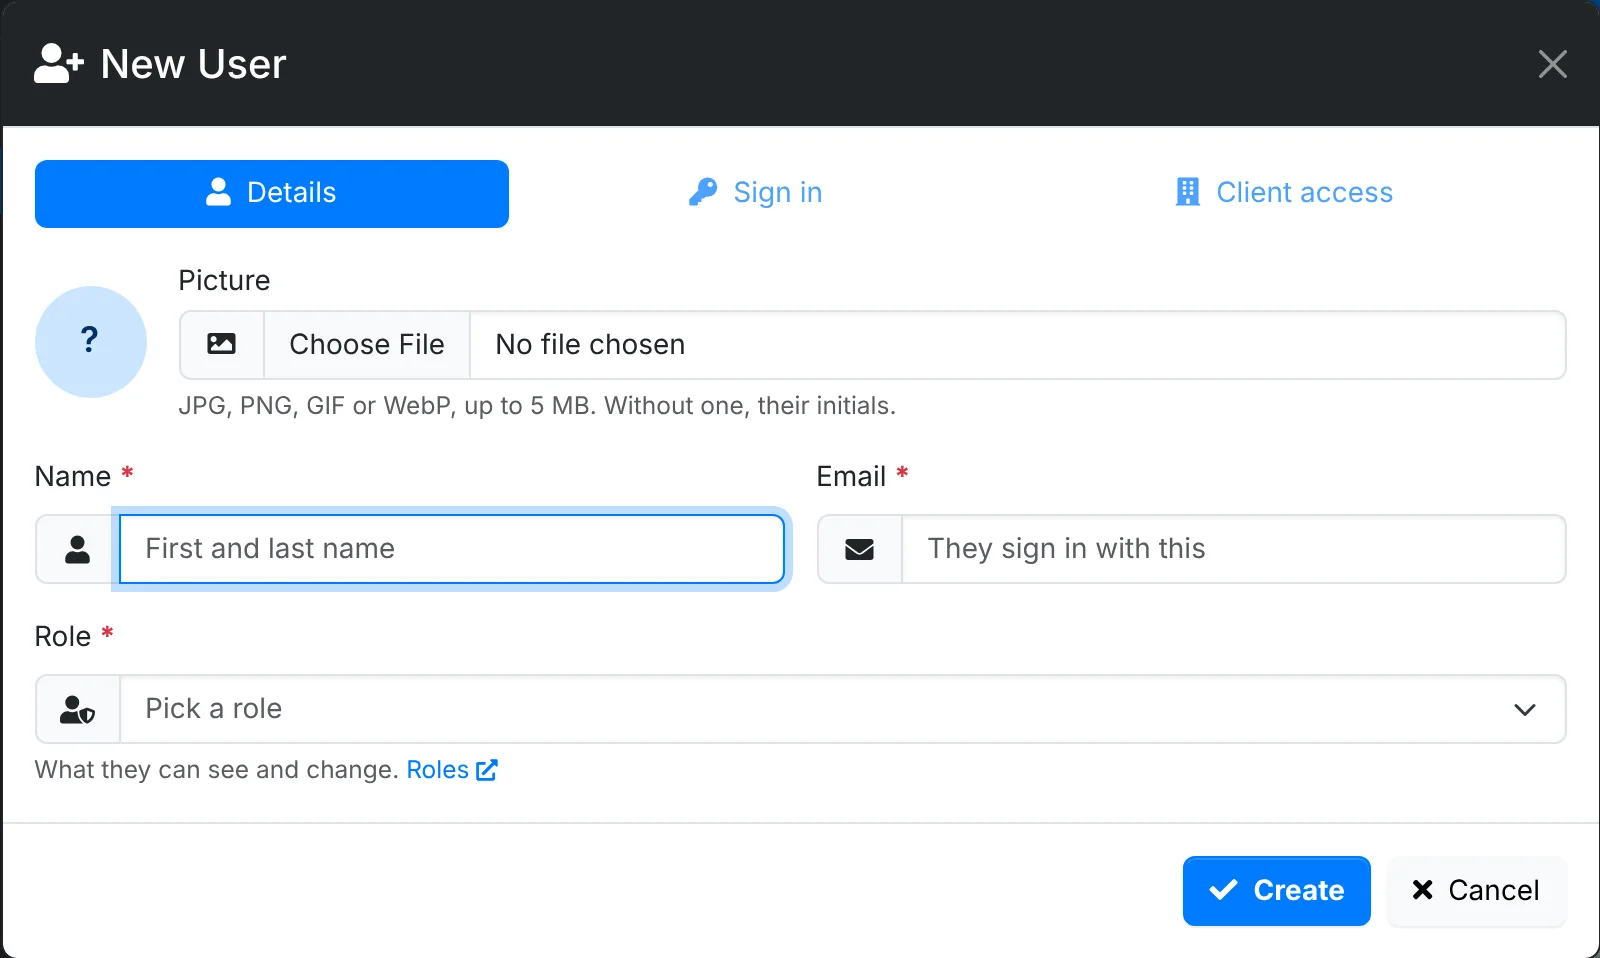
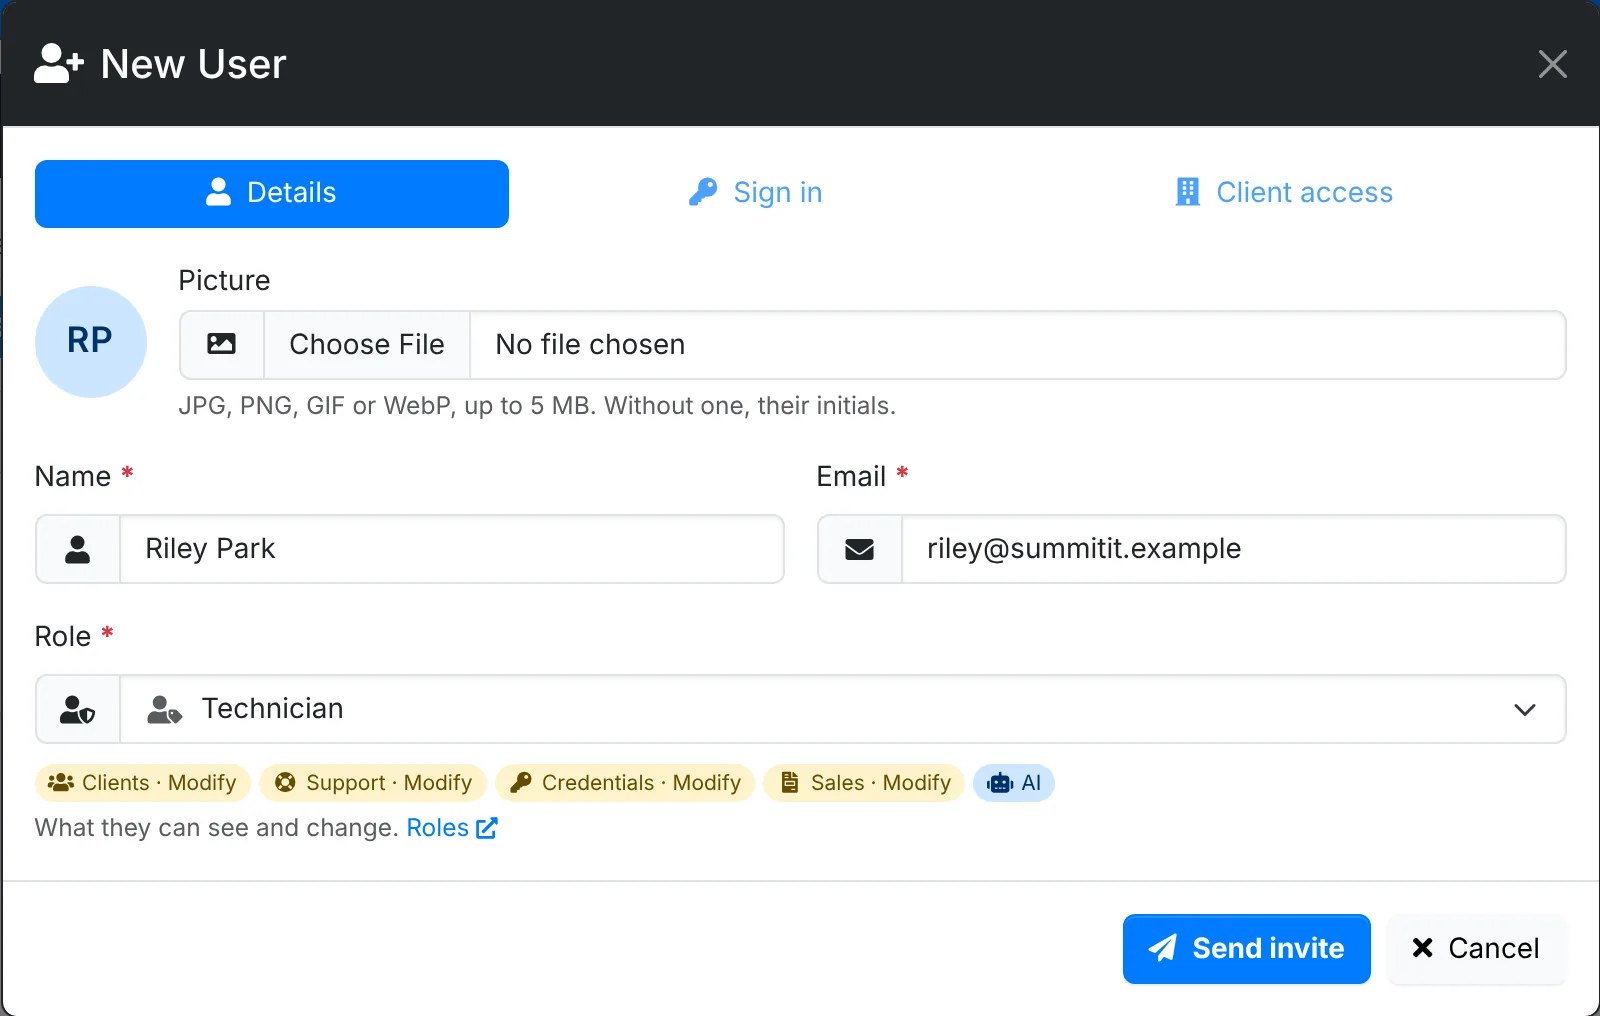
Document agent invites: Users covers inviting someone, joining from the link, the Invited tab with Send again, Get the link and Cancel invite, and seats held by waiting invites; the after-install Your team step now invites when email is set up; new and updated screenshots for the users list, New Use

diff --git a/content/admin/users.md b/content/admin/users.md
@@ -1,6 +1,6 @@
 ---
 title: Users
-description: The agents who sign in to ITFlow - adding them, their role and the clients they see, two-step sign-in, and what to do when someone leaves.
+description: The agents who sign in to ITFlow - inviting them, their role and the clients they see, two-step sign-in, and what to do when someone leaves.
 where: Admin > Users
 access: Admins
 ---
@@ -9,19 +9,56 @@ Users are your team: everyone who signs in to ITFlow to work. (Your clients' con
 
 ![The users list](adm-users.webp "Users: each agent's role, how they sign in, the clients they see and when they last signed in")
 
-Each row shows the agent, their **Role**, whether they can sign in and how (with or without two-step sign-in), the **Clients** they can see, and when they **Last signed in** and from where. The tabs show **Users**, **Admins**, **No MFA** (not using two-step sign-in), **Disabled** and **Archived**.
+Each row shows the agent, their **Role**, whether they can sign in and how (with or without two-step sign-in), the **Clients** they can see, and when they **Last signed in** and from where. The tabs show **Users**, **Admins**, **No MFA** (not using two-step sign-in), **Disabled**, **Invited** (people asked to join who aren't in yet) and **Archived**.
 
 Your own row can't be changed here - that's your [account](/getting-started/account) - so you can't lock yourself out by mistake.
 
-## Add a user
+## Invite someone
+
+You invite people rather than set a password for them: they're emailed a link, and choose their own password when they join. Nobody else ever knows it - their password also unlocks their copy of the [credential vault](/documentation/credentials) - so there's no password to pass on, write down or email.
 
 1. Click **New User**.
 2. On **Details**, add their **Name**, the **Email** they sign in with, and their **Role** - what they can see and change (see [Roles](/admin/roles)). A picture is optional.
-3. On **Sign in**, set a password, or switch on **Email them their sign in details**. Either way, they should change it once they're in. Switch on **Require it** under **Multi-factor authentication** to make them set up two-step sign-in at their first sign-in.
+3. On **Sign in**, leave **Invite them** picked. Switch on **Require it** under **Multi-factor authentication** to make them set up two-step sign-in as they first sign in.
 4. On **Client access**, limit them to some clients if you need to (see below).
-5. Click **Create**.
+5. Click **Send invite**.
 
-![The New User window](adm-user-new.webp "New User: their details and role, how they sign in, and which clients they see")
+![The New User window](adm-user-new.webp "New User: their details and role, how they get in, and which clients they see")
+
+![New User's Sign in tab](adm-user-invite.webp "Sign in: invite them - they choose their own password - or set one now")
+
+They get an email from you with **Accept the invite**. Until they use it, they're on the **Invited** tab, not your list of users. The link works for 7 days.
+
+> [!NOTE]
+> With no email set up, **Invite them** gives you the link instead, at the top of **Users** - send it to them yourself, by chat, text or your own email. It's only shown that once. To set up email, see [Mail](/admin/mail).
+
+**Set a password now** is still there, if you'd rather: type one, or make one up with the wand, and give it to them yourself - nothing is emailed. They should change it once they're in.
+
+### Joining
+
+The link opens a page that says who invited them and as what. They check their name, choose a password - twice - and click **Join**. From then they're an agent with the role, two-step sign-in and clients you set, and sign in on the usual page. You're notified in ITFlow, and their quick look says whose invite they joined from.
+
+![Joining from an invite](adm-user-join.webp "The page the invite opens: their name and their own password")
+
+A link that has run out, been used or cancelled says so, and who to ask for another.
+
+### Invites waiting
+
+The **Invited** tab lists everyone invited who hasn't joined yet - their role, whether the link is still good or has **Run out**, two-step sign-in, the clients they'll see, and who invited them and when it was emailed.
+
+![Invites waiting](adm-users-invited.webp "Invited: who is asked to join, and whether their link is still good")
+
+From a row's menu:
+
+- **Send again** emails them a new link, good for another 7 days. The one sent before stops working.
+- **Get the link** makes a new link for you to send them yourself, shown once at the top of the page. The one sent before stops working.
+- **Cancel invite** stops the link working.
+
+![An invite link to pass on](adm-user-invite-link.webp "Get the link: shown once, to send them yourself")
+
+To change an invite - a different role, say - use **New User** again with the same email. Their invite takes what you set now, and they're sent a new link.
+
+If your installation has a limit on agents, an invite waiting holds a seat until it's accepted, cancelled or runs out, so there's one for them when they join.
 
 ## Which clients they see
 

diff --git a/content/install/after-install.md b/content/install/after-install.md
@@ -113,11 +113,12 @@ If you already have default SLAs, the step shows yours - with their time to reso
 
 ## Your team {#team}
 
-![The Your team step, adding someone](inst-start-team.webp "Your team: who can sign in now, and someone to add")
+![The Your team step, inviting someone](inst-start-team.webp "Your team: who can sign in now, and someone to invite")
 
-The step lists who can sign in now. To add someone, give their **Name**, **Email** and **Role**, and click **Add them**. Add as many people as you like, one at a time.
+The step lists who can sign in now, and who is invited. To add someone, give their **Name**, **Email** and **Role**, and click **Invite them**. Add as many people as you like, one at a time.
 
-- ITFlow makes their password. With email set up, they're emailed their sign-in details, once cron is running. Without it, ITFlow shows you the password once - give it to them to sign in with, and they change it.
+- With email set up, they're emailed an invite, once cron is running - a link to choose their own password and join. See [Invite someone](/admin/users#invite-someone).
+- Without email, the button is **Add them**: ITFlow makes their password and shows it to you once - give it to them to sign in with, and they change it.
 - **Role** decides what they can see and change. Most people are **Technician**. See [Roles and permissions](/admin/roles).
 - A role that isn't an admin one sees every client, until you limit them in [Admin > Users](/admin/users#which-clients-they-see).
 
